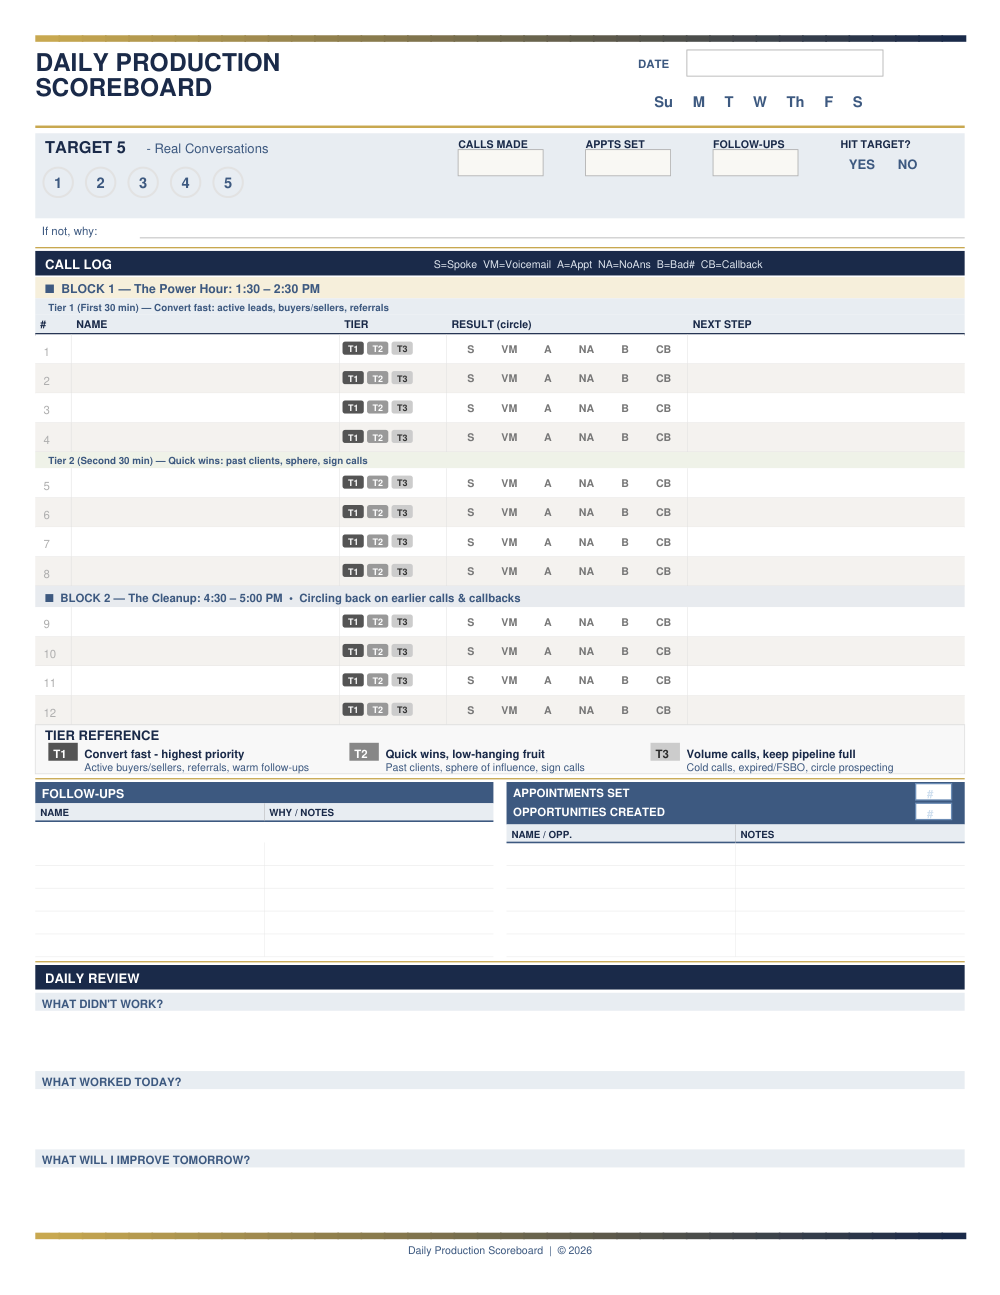
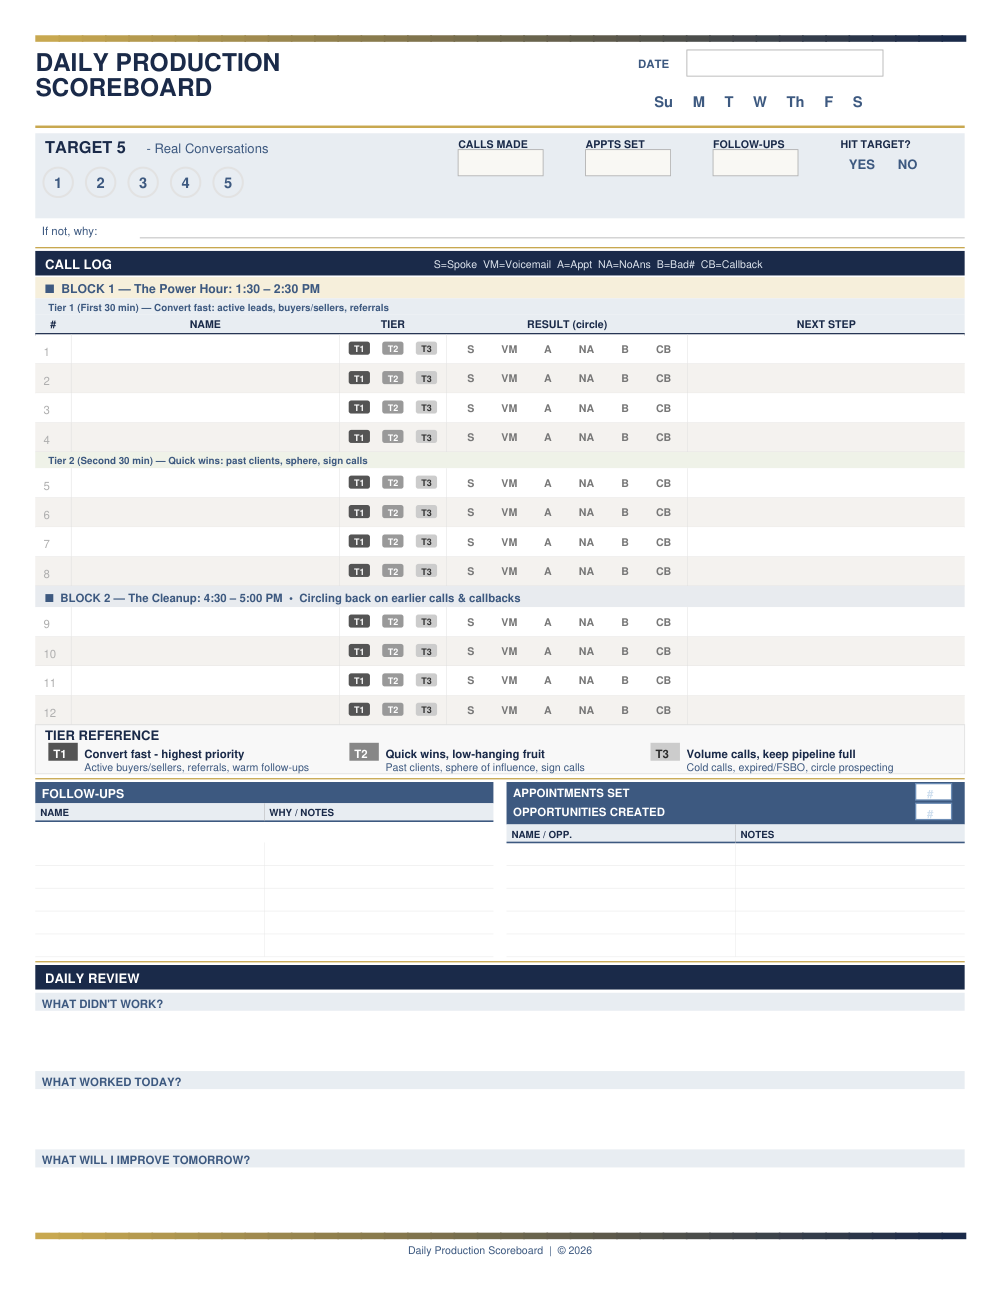
Even-space T1/T2/T3 badges across Tier column; center all column headers (PDF + web)

diff --git a/styles.css b/styles.css
@@ -335,8 +335,8 @@ body {
 .call-table tbody tr.tier-t3 td { background: #FFFFFF !important; }
 .call-table .row-num { text-align: center; color: var(--med-gray); font-size: 7px; font-weight: 500; }
 .call-table .tier-codes {
-    text-align: center; color: #C0C0C0; font-size: 7px; letter-spacing: 1.5px;
-    cursor: pointer; user-select: none; padding: 0 2px;
+    display: flex; justify-content: space-evenly; align-items: center;
+    padding: 0; cursor: pointer; user-select: none;
 }
 .call-table .result-codes {
     text-align: center; color: #C8C8C8; font-size: 6.5px; letter-spacing: 0.3px;
@@ -409,7 +409,10 @@ body {
 .min-pill-code.tier-pill[data-value="T1"].selected { background: #555; color: white; border-color: #555; }
 .min-pill-code.tier-pill[data-value="T2"].selected { background: #999; color: white; border-color: #999; }
 .min-pill-code.tier-pill[data-value="T3"].selected { background: #CCC; color: #333; border-color: #CCC; }
-.min-tier-codes, .min-result-codes {
+.min-tier-codes {
+    display: flex; justify-content: space-evenly; align-items: center; padding: 0;
+}
+.min-result-codes {
     text-align: center; padding: 0 1px;
 }
 
